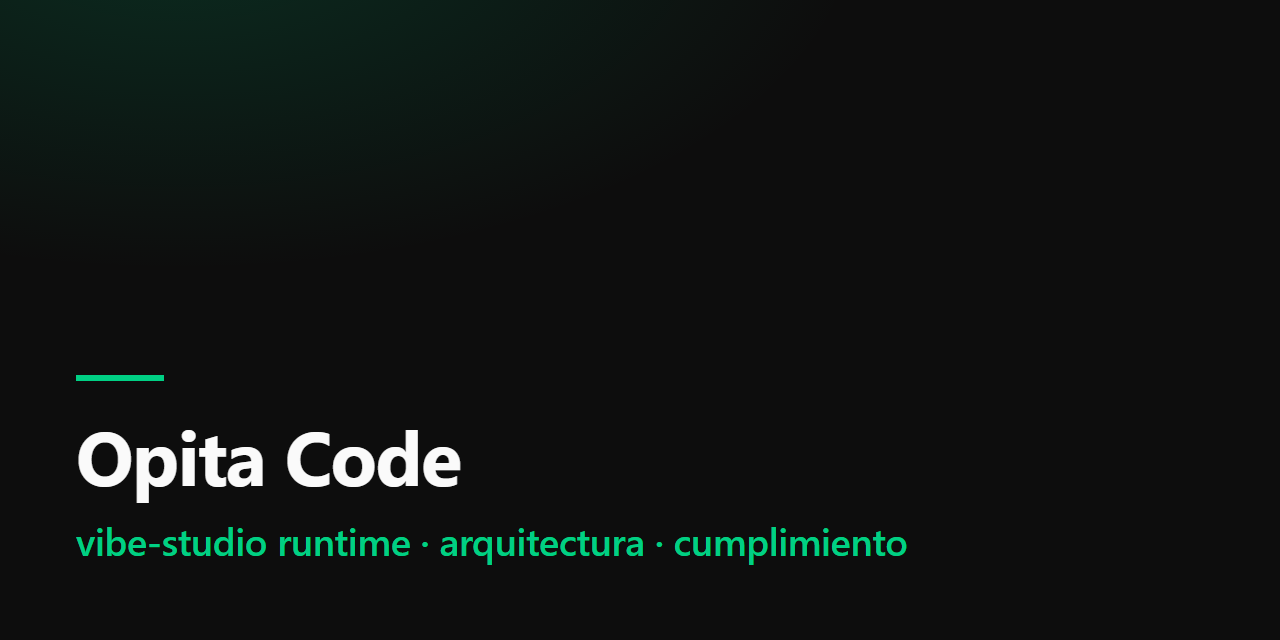
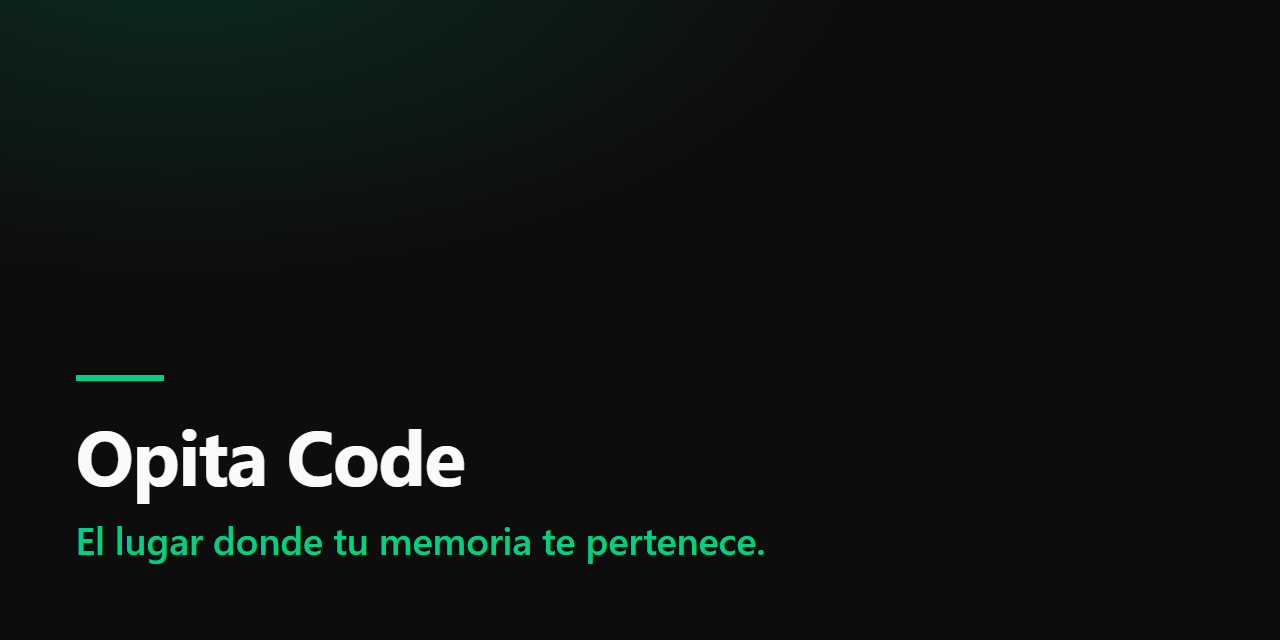
La tarjeta dice la promesa, y sale de la fuente
QUE CAMBIA

  La imagen que se ve al compartir un enlace decia «vibe-studio runtime ·
  arquitectura · cumplimiento». Eso solo lo entiende quien ya sabe que es
  un runtime. Con el canal, el primer clic de alguien que llega de Facebook
  aterriza en esa imagen: tiene que decir la promesa.

  Ahora dice «El lugar donde tu memoria te pertenece», y esa frase NO esta
  escrita en la tarjeta: el renderizador la toma de la vision del operador,
  que vive en `vibe-tools/estado.json`. Si la promesa cambia, la imagen
  cambia. Una tarjeta no puede quedar diciendo algo que la fuente ya no
  dice.

UNA FUENTE, CUATRO FORMATOS

  El mismo HTML se renderiza en el lienzo de cada plataforma:

    1280x640    la vista previa de un enlace (GitHub y el og:image del sitio)
    1080x1350   Instagram, 4:5
    1200x627    LinkedIn, 1.91:1
    1080x1080   Facebook y el perfil de Instagram, 1:1

  Para eso el layout se mide en unidades de lienzo (vw) y no en pixeles: lo
  que se lee a 400 px de ancho se lee igual en todos los formatos, que es lo
  que muestra un feed. Y la composicion se adapta a la forma con una media
  query: el lienzo horizontal se compone abajo a la izquierda, y el vertical
  se centra, porque abajo a la izquierda en un 4:5 dejaba el 80% de la
  imagen vacio. El navegador ya sabe la forma del lienzo; no hace falta
  pasarle el formato.

EL HALLAZGO, Y EL GUARD QUE FALTA

  El marcador de la promesa aparece dos veces en el HTML: en el comentario
[…]

Changed region(s): [[0.0625, 0.8125, 0.7188, 0.875], [0.0625, 0.6562, 0.375, 0.7812]]

diff --git a/docs/social-preview.html b/docs/social-preview.html
@@ -1,31 +1,45 @@
 <!doctype html>
 <!--
-  SOCIAL PREVIEW — la imagen que se ve al compartir el enlace del repo.
+  LA TARJETA. La imagen que se ve al compartir un enlace, en cualquier
+  plataforma.
 
   POR QUE ESTA EN HTML Y NO ES UN PNG SUELTO. Un PNG versionado es un
   archivo binario que no se puede revisar ni regenerar: nadie sabe que
   dice, y nadie sabe como se cambio. Aqui esta la fuente, y el PNG sale de
   aqui. `vibe-tools/tools/render-preview.mjs` lo produce.
 
+  UNA FUENTE, VARIOS FORMATOS. El mismo HTML se renderiza en el lienzo que
+  cada plataforma usa:
+    - 1280x640  la vista previa de un enlace (GitHub y el og:image del sitio)
+    - 1080x1350 Instagram, 4:5, que es lo que ocupa mas pantalla en el feed
+    - 1200x627  LinkedIn, 1.91:1
+    - 1080x1080 Facebook y el perfil de Instagram, 1:1
+  Por eso el layout se mide en unidades de lienzo (vw) y no en pixeles: lo
+  que se lee a 400 px de ancho se lee igual en todos los formatos.
+
   POR QUE NO HAY UNA SOLA FUENTE DE LETRA. El estado del arte de las imagenes
-  de compartilhado es explicito: cero peticiones de red, solo fuentes del
+  de compartido es explicito: cero peticiones de red, solo fuentes del
   sistema, porque el render tiene que salir igual en cualquier maquina. La
   pila de la marca de Opita ya trae ese fallback ('Inter', system-ui, Segoe
   UI...), asi que se usa tal cual: si Inter esta instalada, sale Inter; si no,
   sale la del sistema. Y ningun CDN, porque una imagen que depende de la red
   no se puede reproducir.
 
-  LAS MEDIDAS NO SON DECORATIVAS. Cada numero de aqui sale de la medicion:
-  1280x640 es el lienzo (2:1, el que GitHub recorta sin perder nada), el
-  nombre va a 76 px porque el feed muestra la miniatura a 400 px de ancho y
+  LAS MEDIDAS NO SON DECORATIVAS. Cada numero sale de la medicion: el
+  nombre va a 6 vw porque el feed muestra la miniatura a 400 px de ancho y
   por debajo de 24 px no se lee nada, y los tres colores son los de la
   paleta de Opita con su auditoria WCAG ya hecha: blanco sobre negro 19.7:1
   y verde de acento sobre negro 12.4:1, ambos AAA.
+
+  EL TEXTO VIENE DE LA FUENTE, NO DE AQUI. {{PROMESA}} lo rellena el
+  renderizador con la vision del operador, que vive en
+  `vibe-tools/estado.json`. Si la promesa cambia, la tarjeta cambia: no
+  puede quedar una frase vieja que diga otra cosa.
 -->
 <html lang="es">
 <head>
 <meta charset="utf-8">
-<title>Opita Code — social preview</title>
+<title>Opita Code</title>
 <style>
   :root {
     --ink: #0D0D0D;
@@ -33,42 +47,49 @@
     --accent: #00D084;
   }
   * { margin: 0; padding: 0; box-sizing: border-box; }
-  html, body { width: 1280px; height: 640px; overflow: hidden; }
+  html, body { width: 100%; height: 100%; overflow: hidden; }
   body {
     background-color: var(--ink);
-    background-image: radial-gradient(1100px 560px at 14% -12%, rgba(0,208,132,0.16), rgba(13,13,13,0) 62%);
+    background-image: radial-gradient(86vw 44vw at 14% -12%, rgba(0,208,132,0.16), rgba(13,13,13,0) 62%);
     color: var(--paper);
     font-family: 'Inter', system-ui, -apple-system, 'Segoe UI', Roboto, Helvetica, Arial, sans-serif;
     display: flex;
     flex-direction: column;
     justify-content: flex-end;
-    padding: 76px;
+    padding: 5.9vw;
   }
   .rule {
-    width: 88px;
-    height: 6px;
+    width: 6.9vw;
+    height: 0.47vw;
     background: var(--accent);
-    margin-bottom: 34px;
+    margin-bottom: 2.6vw;
   }
   h1 {
-    font-size: 76px;
+    font-size: 6vw;
     line-height: 1.05;
     font-weight: 700;
     letter-spacing: -0.02em;
   }
   p {
-    margin-top: 22px;
-    font-size: 38px;
+    margin-top: 1.7vw;
+    font-size: 3vw;
     line-height: 1.25;
     font-weight: 500;
     letter-spacing: -0.01em;
     color: var(--accent);
+  }
+  /* El lienzo horizontal se compose abajo a la izquierda, que es donde el
+     ojo empieza. Uno vertical (Instagram, 4:5) dejaria el 80% de la imagen
+     vacio arriba, asi que se centra. El navegador sabe la forma del
+     lienzo: no hace falta pasarle el formato. */
+  @media (max-aspect-ratio: 9/10) {
+    body { justify-content: center; }
   }
 </style>
 </head>
 <body>
   <div class="rule"></div>
   <h1>Opita Code</h1>
-  <p>vibe-studio runtime &middot; arquitectura &middot; cumplimiento</p>
+  <p>{{PROMESA}}</p>
 </body>
 </html>

diff --git a/docs/canal.md b/docs/canal.md
@@ -51,10 +51,26 @@ avisa de nada.
 Cada entrada es un documento: lo que se publicó, en cada plataforma, con el
 texto exacto. El índice está en [canal/INDICE.md](canal/INDICE.md).
 
+## Las imágenes, y por qué hay una por plataforma
+
+La tarjeta dice lo que el proyecto promete, y esa frase sale de la fuente: el
+renderizador la toma de `vibe-tools/estado.json`. Si la promesa cambia, la
+imagen cambia, y no puede quedar una frase vieja que diga otra cosa.
+
+Un HTML, cuatro formatos. El diseño se mide en unidades de lienzo, así que lo
+que se lee a 400 px de ancho (lo que muestra un feed) se lee igual en todos:
+
+| Archivo | Lienzo | Para |
+|---|---|---|
+| `docs/social-preview.png` | 1280x640 | la vista previa de un enlace: GitHub y el og:image del sitio |
+| `docs/posts/instagram.png` | 1080x1350 | Instagram, 4:5 |
+| `docs/posts/linkedin.png` | 1200x627 | LinkedIn, 1.91:1 |
+| `docs/posts/facebook.png` | 1080x1080 | Facebook y el perfil de Instagram, 1:1 |
+
+La fuente es `docs/social-preview.html` y el procedimiento es
+`vibe-tools/tools/render-preview.mjs`, que ademas mide el contraste, comprueba
+que nada se sale del lienzo y falla si el PNG pesa mas de 1 MB.
+
 ## Qué falta
 
-- **La imagen de cada plataforma.** La que hay es de social preview
-  (1280x640) y lleva la línea técnica del proyecto. Para esta audiencia
-  tiene que rehacerse con la promesa, en el formato nativo de cada una:
-  Instagram 4:5 (1080x1350), LinkedIn 1.91:1 (1200x627).
 - **Qué cuentas.** Las personales o unas del proyecto, en cada plataforma.

diff --git a/docs/canal/2026-10-25.md b/docs/canal/2026-10-25.md
@@ -82,5 +82,5 @@ es la difícil.
 |---|---|
 | Publicado | los tres textos de arriba |
 | Enlace | en la bio (Facebook, Instagram) y en el primer comentario (LinkedIn) |
-| Imagen | la de social preview (1280x640). Falta el formato nativo de cada plataforma |
+| Imagen | `docs/posts/instagram.png` (4:5), `docs/posts/linkedin.png` (1.91:1), `docs/posts/facebook.png` (1:1). La misma tarjeta, en el formato nativo de cada una |
 | Cuentas | pendientes de decidir: las personales o unas del proyecto |
